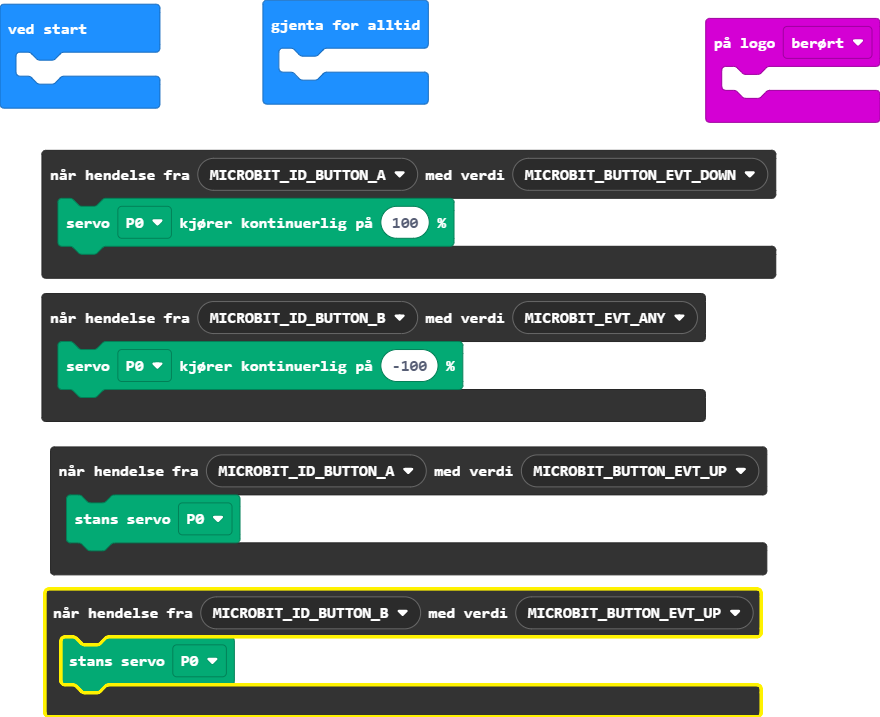
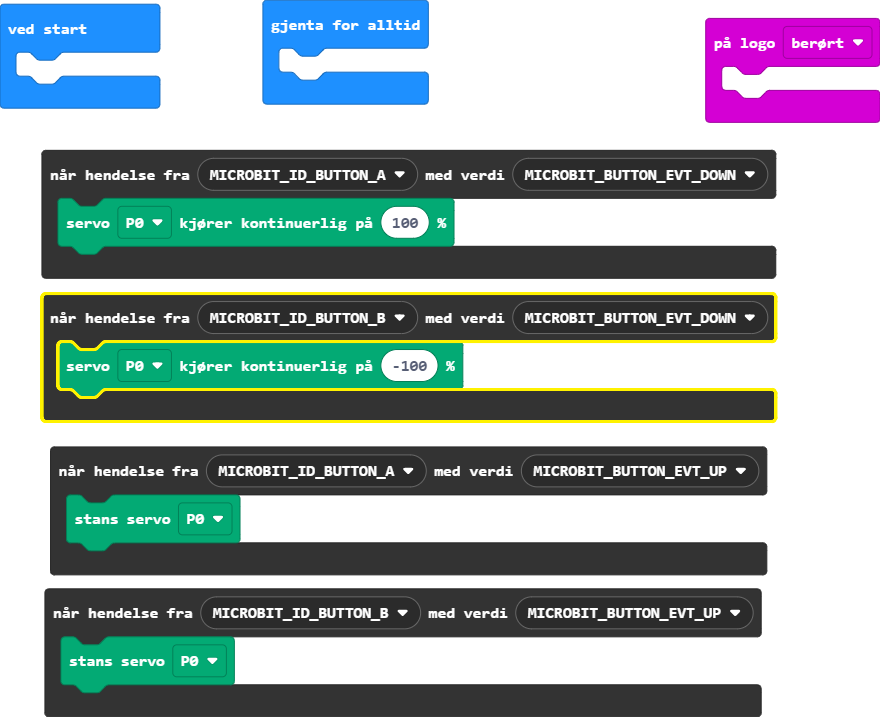
Oppdater main.blocks, main.ts

diff --git a/main.ts b/main.ts
@@ -7,7 +7,7 @@ control.onEvent(EventBusSource.MICROBIT_ID_BUTTON_A, EventBusValue.MICROBIT_BUTT
 control.onEvent(EventBusSource.MICROBIT_ID_BUTTON_B, EventBusValue.MICROBIT_BUTTON_EVT_UP, function () {
     servos.P0.stop()
 })
-control.onEvent(EventBusSource.MICROBIT_ID_BUTTON_B, EventBusValue.MICROBIT_EVT_ANY, function () {
+control.onEvent(EventBusSource.MICROBIT_ID_BUTTON_B, EventBusValue.MICROBIT_BUTTON_EVT_DOWN, function () {
     servos.P0.run(-100)
 })
 input.onLogoEvent(TouchButtonEvent.Touched, function () {
